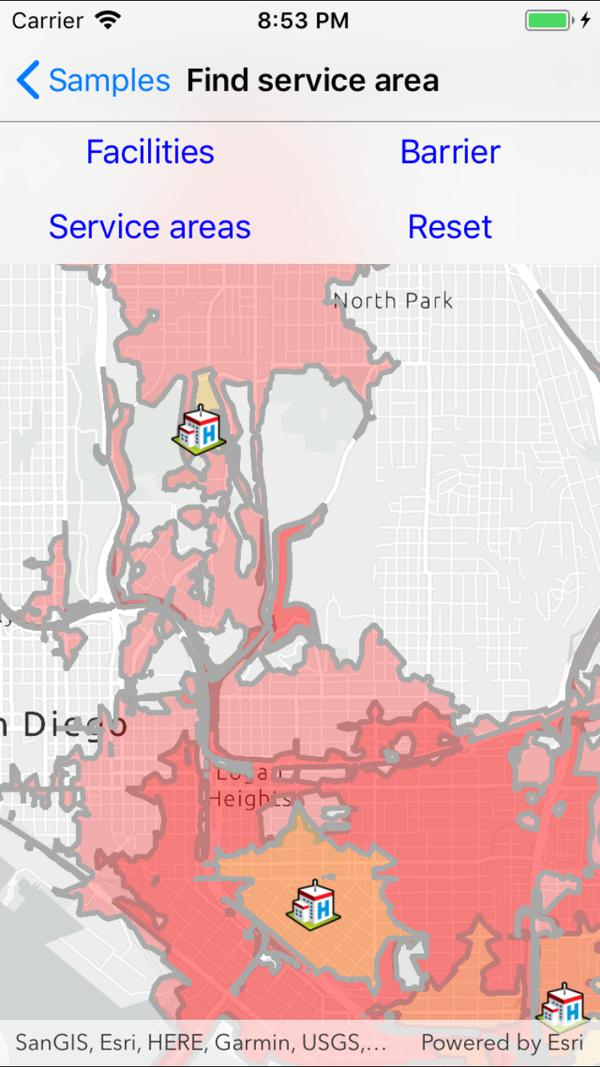
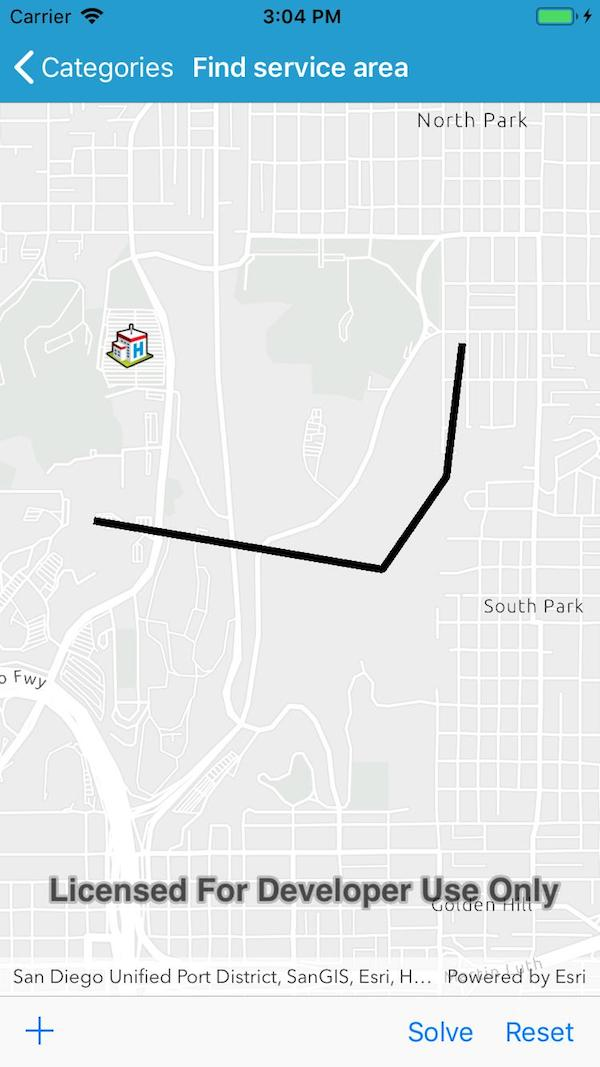
Update UI on Find Service Areas

diff --git a/src/iOS/Xamarin.iOS/Samples/Network Analysis/FindServiceArea/FindServiceArea.CS b/src/iOS/Xamarin.iOS/Samples/Network Analysis/FindServiceArea/FindServiceArea.CS
@@ -31,15 +31,13 @@ namespace ArcGISRuntime.Samples.FindServiceArea
         "ArcGISMap, GraphicsOverlay, MapView, PolylineBarrier, ServiceAreaFacility, ServiceAreaParameters, ServiceAreaPolygon, ServiceAreaResult, ServiceAreaTask, SketchEditor")]
     public class FindServiceArea : UIViewController
     {
+        // Hold references to UI controls.
         private MapView _myMapView;
-
-        private UIToolbar _toolbar = new UIToolbar();
-
-        // Create buttons for the UI.
-        private UIButton _addFacilitiesButton = new UIButton(UIButtonType.Plain);
-        private UIButton _addBarrierButton = new UIButton(UIButtonType.Plain);
-        private UIButton _showServiceAreasButton = new UIButton(UIButtonType.Plain);
-        private UIButton _resetButton = new UIButton(UIButtonType.Plain);
+        private UIToolbar _toolbar;
+        private UIBarButtonItem _addButton;
+        private UIBarButtonItem _resetButton;
+        private UIBarButtonItem _showButton;
+        private UIBarButtonItem _doneButton;
 
         // Uri for the service area around San Diego.
         private Uri _serviceAreaUri = new Uri("https://sampleserver6.arcgisonline.com/arcgis/rest/services/NetworkAnalysis/SanDiego/NAServer/ServiceArea");
@@ -53,48 +51,7 @@ namespace ArcGISRuntime.Samples.FindServiceArea
         {
             base.ViewDidLoad();
 
-            // Create a new MapView control and provide its location coordinates on the frame
-            _myMapView = new MapView();
-
-            // Add all of the buttons and link their click methods.
-            _addFacilitiesButton.SetTitle("Facilities", UIControlState.Normal);
-            _addFacilitiesButton.SetTitleColor(UIColor.Blue, UIControlState.Normal);
-            _addFacilitiesButton.TouchUpInside += PlaceFacilites_Click;
-
-            _addBarrierButton.SetTitle("Barrier", UIControlState.Normal);
-            _addBarrierButton.SetTitleColor(UIColor.Blue, UIControlState.Normal);
-            _addBarrierButton.TouchUpInside += DrawBarrier_Click;
-
-            _showServiceAreasButton.SetTitle("Service areas", UIControlState.Normal);
-            _showServiceAreasButton.SetTitleColor(UIColor.Blue, UIControlState.Normal);
-            _showServiceAreasButton.TouchUpInside += ShowServiceAreas_Click;
-
-            _resetButton.SetTitle("Reset", UIControlState.Normal);
-            _resetButton.SetTitleColor(UIColor.Blue, UIControlState.Normal);
-            _resetButton.TouchUpInside += Reset_Click;
-
-            // Add the bar button items to an array of UIBarButtonItems
-            View.AddSubviews(_myMapView, _toolbar, _addFacilitiesButton, _addBarrierButton, _showServiceAreasButton, _resetButton);
-
             Initialize();
-        }
-
-        public override void ViewDidLayoutSubviews()
-        {
-            int yPageOffset = 60;
-
-            // Setup the visual frame for the MapView
-            _myMapView.Frame = new CoreGraphics.CGRect(0, 0, View.Bounds.Width, View.Bounds.Height);
-
-            // Setup the visual frame for the Toolbar
-            _toolbar.Frame = new CoreGraphics.CGRect(0, yPageOffset, View.Bounds.Width, 80);
-
-            _addFacilitiesButton.Frame = new CoreGraphics.CGRect(0, yPageOffset, View.Bounds.Width / 2, 40);
-            _addBarrierButton.Frame = new CoreGraphics.CGRect(View.Bounds.Width / 2, yPageOffset, View.Bounds.Width / 2, 40);
-            _showServiceAreasButton.Frame = new CoreGraphics.CGRect(0, yPageOffset + 40, View.Bounds.Width / 2, 40);
-            _resetButton.Frame = new CoreGraphics.CGRect(View.Bounds.Width / 2, yPageOffset + 40, View.Bounds.Width / 2, 40);
-
-            base.ViewDidLayoutSubviews();
         }
 
         private void Initialize()
@@ -121,17 +78,67 @@ namespace ArcGISRuntime.Samples.FindServiceArea
             };
         }
 
-        private async void PlaceFacilites_Click(object sender, EventArgs e)
+        public override void LoadView()
         {
-            // Disable the button so the user recognizes that they are placing a facility.
-            _addFacilitiesButton.Enabled = false;
-            _addFacilitiesButton.SetTitleColor(UIColor.Gray, UIControlState.Disabled);
+            View = new UIView();
+            View.BackgroundColor = UIColor.White;
 
+            _myMapView = new MapView();
+            _myMapView.TranslatesAutoresizingMaskIntoConstraints = false;
+            View.AddSubview(_myMapView);
+
+            _toolbar = new UIToolbar();
+            _toolbar.TranslatesAutoresizingMaskIntoConstraints = false;
+            View.AddSubview(_toolbar);
+
+            _addButton = new UIBarButtonItem(UIBarButtonSystemItem.Add, AddClick);
+            _doneButton = new UIBarButtonItem(UIBarButtonSystemItem.Done, DoneClick);
+            _showButton = new UIBarButtonItem("Solve", UIBarButtonItemStyle.Plain, ShowServiceAreas_Click);
+            _resetButton = new UIBarButtonItem("Reset", UIBarButtonItemStyle.Plain, Reset_Click);
+            _toolbar.Items = getToolbarItems;
+
+            _myMapView.TopAnchor.ConstraintEqualTo(View.SafeAreaLayoutGuide.TopAnchor).Active = true;
+            _myMapView.LeadingAnchor.ConstraintEqualTo(View.LeadingAnchor).Active = true;
+            _myMapView.TrailingAnchor.ConstraintEqualTo(View.TrailingAnchor).Active = true;
+            _myMapView.BottomAnchor.ConstraintEqualTo(_toolbar.TopAnchor).Active = true;
+
+            _toolbar.BottomAnchor.ConstraintEqualTo(View.SafeAreaLayoutGuide.BottomAnchor).Active = true;
+            _toolbar.LeadingAnchor.ConstraintEqualTo(View.LeadingAnchor).Active = true;
+            _toolbar.TrailingAnchor.ConstraintEqualTo(View.TrailingAnchor).Active = true;
+        }
+
+        private UIBarButtonItem[] getToolbarItems => 
+            new[] {_addButton, new UIBarButtonItem(UIBarButtonSystemItem.FlexibleSpace),_showButton,_resetButton };
+
+
+        private void AddClick(Object sender, EventArgs e)
+        {
+            // Decide what to add
+            UIAlertController prompt = UIAlertController.Create("Add facilities & barriers", "Tap to add facilities. Tap to build a polyline representing barriers. Press 'Done' to finish.", UIAlertControllerStyle.ActionSheet);
+            prompt.AddAction(UIAlertAction.Create("Add a facility", UIAlertActionStyle.Default, DrawFacilities));
+            prompt.AddAction(UIAlertAction.Create("Add a barrier", UIAlertActionStyle.Default, DrawBarrier_Click));
+            PresentViewController(prompt, true, null);
+
+            // Swap toolbar
+            _toolbar.Items = new[] { _doneButton };
+        }
+
+        private void DoneClick(Object sender, EventArgs e)
+        {
+            // Finish editing
+            _myMapView.SketchEditor.CompleteCommand.Execute(null);
+
+            // Swap toolbar
+            _toolbar.Items = getToolbarItems;
+        }
+
+        private async void DrawFacilities(UIAlertAction action)
+        {
             try
             {
                 // Let the user tap on the map view using the point sketch mode.
                 SketchCreationMode creationMode = SketchCreationMode.Point;
-                Geometry geometry = await _myMapView.SketchEditor.StartAsync(creationMode, false);
+                Geometry geometry = await _myMapView.SketchEditor.StartAsync(creationMode, true);
 
                 // Symbology for a facility.
                 PictureMarkerSymbol facilitySymbol = new PictureMarkerSymbol(new Uri("http://static.arcgis.com/images/Symbols/SafetyHealth/Hospital.png"))
@@ -158,17 +165,12 @@ namespace ArcGISRuntime.Samples.FindServiceArea
                 // Report exceptions.
                 CreateErrorDialog("Error drawing facility:\n" + ex.Message);
             }
-
-            // Enable the button when the user is done.
-            _addFacilitiesButton.Enabled = true;
-            _addFacilitiesButton.SetTitleColor(UIColor.Blue, UIControlState.Normal);
         }
 
-        private async void DrawBarrier_Click(object sender, EventArgs e)
+
+        private async void DrawBarrier_Click(UIAlertAction action)
         {
             // Disable the button so the user recognizes that they are drawing a barrier.
-            _addBarrierButton.Enabled = false;
-            _addBarrierButton.SetTitleColor(UIColor.Gray, UIControlState.Disabled);
             try
             {
                 // Let the user draw on the map view using the polyline sketch mode.
@@ -196,10 +198,6 @@ namespace ArcGISRuntime.Samples.FindServiceArea
                 // Report exceptions.
                 CreateErrorDialog("Error drawing barrier:\n" + ex.Message);
             }
-
-            // Enable the button when the user is done.
-            _addBarrierButton.Enabled = true;
-            _addBarrierButton.SetTitleColor(UIColor.Blue, UIControlState.Normal);
         }
 
         private async void ShowServiceAreas_Click(object sender, EventArgs e)
